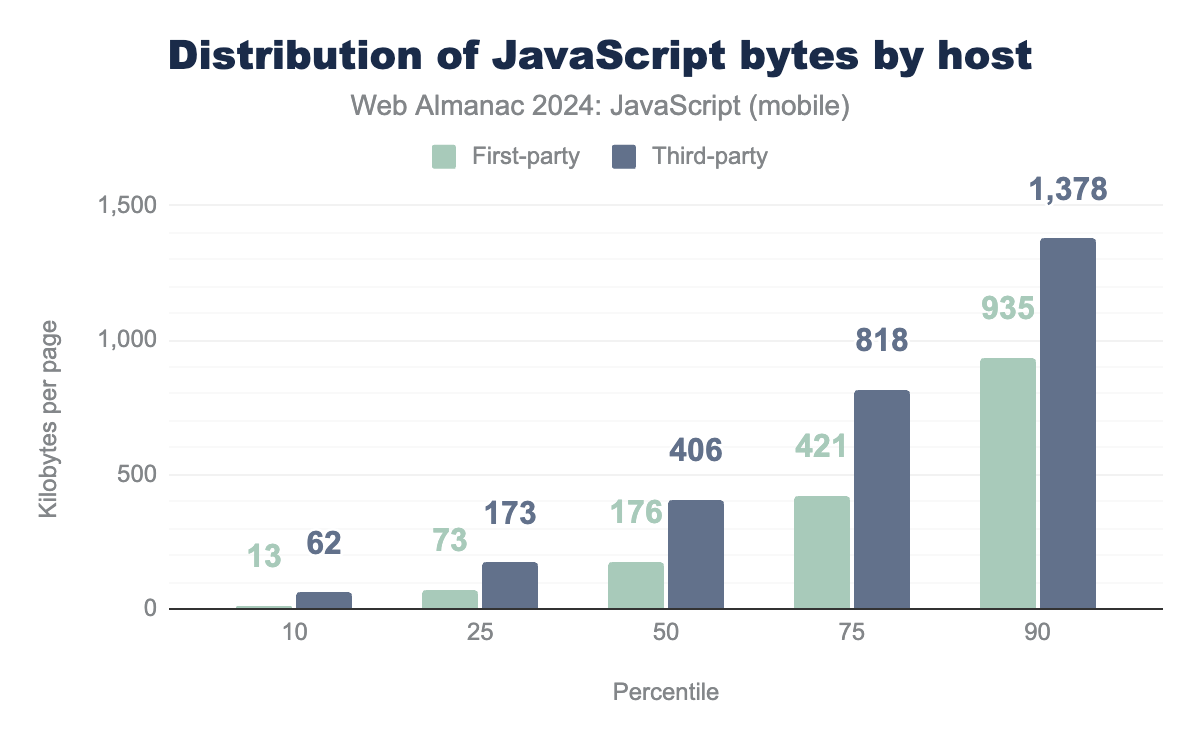
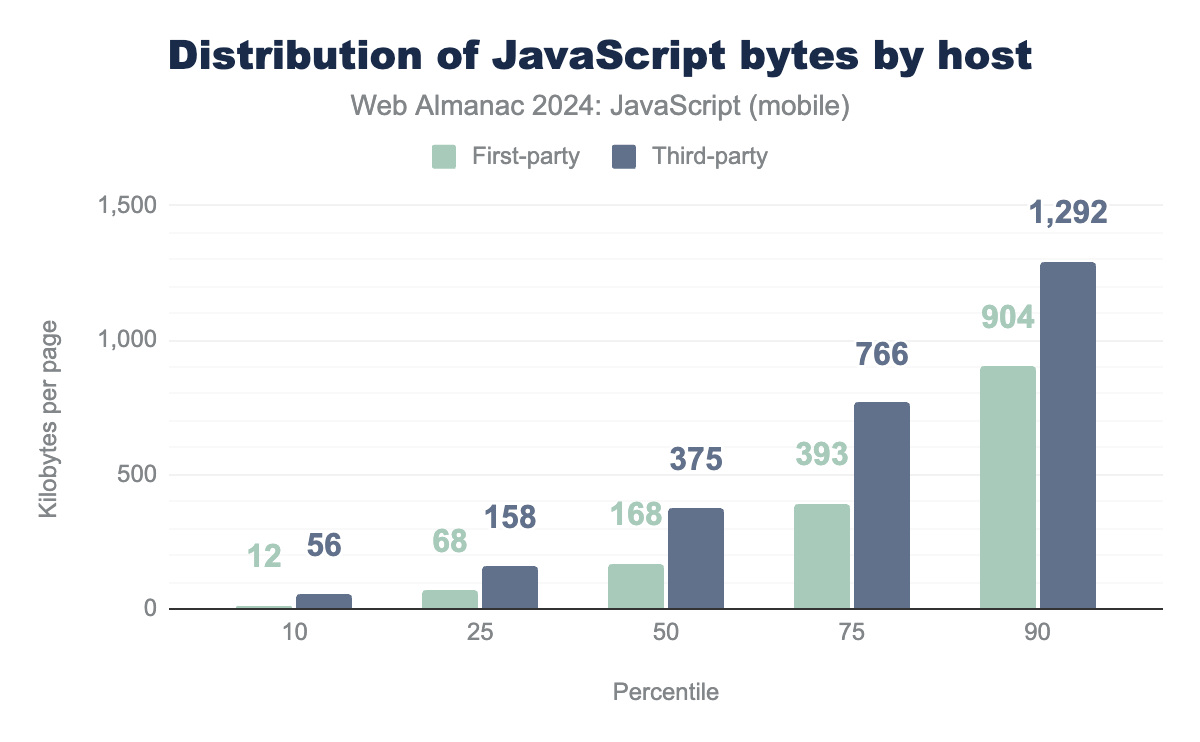
More chart descriptions

diff --git a/src/content/en/2024/javascript.md b/src/content/en/2024/javascript.md
@@ -112,7 +112,7 @@ In the 2022 Web Almanac, year we [looked at transpilers as a percentage of those
 {{ figure_markup(
   image="sites-using-babel-grouped-by-rank.png",
   caption="Sites using Babel grouped by rank.",
-  description="Bar chart of TODO.",
+  description="Bar chart showing Babel usage by rank. For desktop it's 7.6% for the top 1,000 sites, 8.9% for the top 10,000, 6.9% for the top 100,000, 4.7% for the top one million, 4.1% for the top 10 million, and 5.3% for all sites. For mobile it's 9.9% for the top 1,000 sites, 12.0% for the top 10,000, 9.1% for the top 100,000, 5.8% for the top million, and 4.7% for the top ten million and 6.1% for all sites.",
   chart_url="https://docs.google.com/spreadsheets/d/e/2PACX-1vTCTcjvYejhJMWHZwhCSCVm3cbTzqq8pdJRqC6wnBnbsTvPvHu5rTOTbX4_6gWHx-urn-pccmk9bhT3/pubchart?oid=2030733123&format=interactive",
   sheets_gid="1658473552",
   sql_file="usage_of_typescript_and_babel_by_rank.sql"
@@ -128,7 +128,7 @@ TypeScript is a superset of JavaScript that adds static types, which help catch 
 {{ figure_markup(
   image="sites-using-typescript-grouped-by-rank.png",
   caption="Sites using TypeScript grouped by rank.",
-  description="Bar chart of TODO.",
+  description="Bar chart showing Babel usage by rank. For desktop it's 5.2% for the top 1,000 sites, 6.7% for the top 10,000, 6.1% for the top 100,000, 5.5% for the top one million, 4.9% for the top 10 million, and 6.0% for all sites. For mobile it's 4.5% for the top 1,000 sites, 6.2% for the top 10,000, 5.7% for the top 100,000, 5.4% for the top million, and 4.9% for the top ten million and 6.2% for all sites.",
   chart_url="https://docs.google.com/spreadsheets/d/e/2PACX-1vTCTcjvYejhJMWHZwhCSCVm3cbTzqq8pdJRqC6wnBnbsTvPvHu5rTOTbX4_6gWHx-urn-pccmk9bhT3/pubchart?oid=295342967&format=interactive",
   sheets_gid="1658473552",
   sql_file="usage_of_typescript_and_babel_by_rank.sql"
@@ -152,7 +152,7 @@ For modern web applications, the `module` attribute indicates that a script is a
 {{ figure_markup(
   image="how-is-javascript-requested.png",
   caption="How is JavaScript requested?.",
-  description="Bar chart of TODO.",
+  description="Bar chart showing that on desktop, `async` is used on 87% of sites, `defer` on 48%, `async` and `defer` on 22%, `module` on 4%, `nomodule` at 0%, and neither `async` nor `defer` at 11%. For mobile it's pretty identical: `async` is used on 87% of sites, `defer` on 47%, `async` and `defer` on 22%, `module` on 4%, `nomodule` at 0%, and neither `async` nor `defer` at 11%.",
   chart_url="https://docs.google.com/spreadsheets/d/e/2PACX-1vTCTcjvYejhJMWHZwhCSCVm3cbTzqq8pdJRqC6wnBnbsTvPvHu5rTOTbX4_6gWHx-urn-pccmk9bhT3/pubchart?oid=1907402404&format=interactive",
   sheets_gid="901949116",
   sql_file="breakdown_of_pages_using_async_defer.sql"
@@ -163,10 +163,8 @@ Comparing JavaScript loading trends from [the last Web Almanac 2022](../javascri
 
 `module` usage remains low at 4%, while `nomodule` shows xlose to zero adoption, indicating that modern JavaScript module systems are still not widely implemented across the web.
 
-
-
 <figure>
-  <table role="table">
+  <table>
     <thead>
       <tr>
         <th>Attribute</th>
@@ -220,7 +218,7 @@ Resource hints play a crucial role in optimizing browser performance by indicati
 {{ figure_markup(
   image="resource-hints-adoption-for-javascript-resources.png",
   caption="Resource hints adoption for JavaScript resources.",
-  description="Bar chart of TODO.",
+  description="Bar chart of resource hint adoption for JavaScript resources. On desktop `prefetch` is used on 5.1% of pages, `preload` on 7.7%, and `modulepreload` on 0.7% of page. On mobile it's similar with `prefetch` used on 4.8% of pages, `preload` on 7.5%, and `modulepreload` on 0.7% of page.",
   chart_url="https://docs.google.com/spreadsheets/d/e/2PACX-1vTCTcjvYejhJMWHZwhCSCVm3cbTzqq8pdJRqC6wnBnbsTvPvHu5rTOTbX4_6gWHx-urn-pccmk9bhT3/pubchart?oid=516338021&format=interactive",
   sheets_gid="724748185",
   sql_file="resource-hints-prefetch-preload-modulepreload-percentage.sql"
@@ -232,7 +230,7 @@ In comparing the trends between 2022 and 2024 for resource hints adoption, `prel
 {{ figure_markup(
   image="distribution-of-prefetch-adoption-for-javascript-resources-per-page.png",
   caption="Distribution of `prefetch` adoption for JavaScript resources per page.",
-  description="Bar chart of TODO.",
+  description="Bar chart of `prefetch` adoption for JavaScript resources by percentile. For desktop, 2 resources are prefetched at the 10th percentile, 12 at the 25th, and 15th at the 50th, 75th, and 90th percentile. For mobile, it's almost identical with 2 resources prefetched at the 10th percentile, 10 at the 25th, and 15th at the 50th, 75th, and 90th percentile.",
   chart_url="https://docs.google.com/spreadsheets/d/e/2PACX-1vTCTcjvYejhJMWHZwhCSCVm3cbTzqq8pdJRqC6wnBnbsTvPvHu5rTOTbX4_6gWHx-urn-pccmk9bhT3/pubchart?oid=598973620&format=interactive",
   sheets_gid="1228269471",
   sql_file="resource-hints-preload-prefetch-modulepreload-distribution.sql"
@@ -244,7 +242,7 @@ The distribution of `prefetch` adoption for JavaScript resources (among pages th
 {{ figure_markup(
   image="distribution-of-preload-adoption-for-javascript-resources-per-page.png",
   caption="Distribution of `preload` adoption for JavaScript resources per page.",
-  description="Bar chart of TODO.",
+  description="Bar chart of `preload` adoption for JavaScript resources by percentile. Desktop and mobile have identical numbers with 1 resource `preloaded` at the 10th, 25th, and 50th percentiles, 3 at the 75th, and 6 at the 90th percentile.",
   chart_url="https://docs.google.com/spreadsheets/d/e/2PACX-1vTCTcjvYejhJMWHZwhCSCVm3cbTzqq8pdJRqC6wnBnbsTvPvHu5rTOTbX4_6gWHx-urn-pccmk9bhT3/pubchart?oid=388378073&format=interactive",
   sheets_gid="1228269471",
   sql_file="resource-hints-preload-prefetch-modulepreload-distribution.sql"
@@ -256,12 +254,14 @@ Among pages that use `preload`, there is less usage with only one `preload` at t
 {{ figure_markup(
   image="distribution-of-modulepreload-adoption-for-javascript-resources-per-page.png",
   caption="Distribution of `modulepreload` adoption for JavaScript resources per page.",
-  description="Bar chart of TODO.",
+  description="Bar chart of `modulepreload` adoption for JavaScript resources by percentile. For desktop, 1 resource  at the 10th percentile, 4 at the 25th, and 12 at the 50th, 31 at the 75th, and 68 at the 90th percentile. For mobile it's similar with 1 resource at the 10th percentile, 4 at the 25th, and 12 at the 50th, 26 at the 75th, and 66 at the 90th percentile.",
   chart_url="https://docs.google.com/spreadsheets/d/e/2PACX-1vTCTcjvYejhJMWHZwhCSCVm3cbTzqq8pdJRqC6wnBnbsTvPvHu5rTOTbX4_6gWHx-urn-pccmk9bhT3/pubchart?oid=922735274&format=interactive",
   sheets_gid="1228269471",
   sql_file="resource-hints-preload-prefetch-modulepreload-distribution.sql"
   )
 }}
+
+`modulepreload` usage is much more varied, but with low usage this is easily skewed by a few sites.
 
 ### Injected scripts
 
@@ -270,7 +270,7 @@ Script injection involves creating an `HTMLScriptElement` using `document.create
 {{ figure_markup(
   image="distribution-of-percentage-of-injected-scripts.png",
   caption="Distribution of percentage of injected scripts.",
-  description="Bar chart of TODO.",
+  description="Bar chart of the percentage of injected scripts by percentile. For desktop it's 0% at the 10th percentile, 5% at the 25th, 24% at the median, 50% at the 75th, and 73% at the 90th percentile. For mobile it's similar with 0% at the 10th percentile, 3% at the 25th, 21% at the median, 50% at the 75th, and 70% at the 90th percentile.",
   chart_url="https://docs.google.com/spreadsheets/d/e/2PACX-1vTCTcjvYejhJMWHZwhCSCVm3cbTzqq8pdJRqC6wnBnbsTvPvHu5rTOTbX4_6gWHx-urn-pccmk9bhT3/pubchart?oid=153813417&format=interactive",
   sheets_gid="1725251320",
   sql_file="distribution_of_injected_scripts.sql"
@@ -288,7 +288,7 @@ First-party JavaScript is code that is directly served by and belongs to the web
 {{ figure_markup(
   image="distribution-of-javascript-requests-by-host.png",
   caption="Distribution of JavaScript requests by host.",
-  description="Bar chart of TODO.",
+  description="Bar chart of requests by host by percentile. It's 2 first-party and 2 third-party at the 10th percentile, 5 and 4 respectively at the 25th percentile, 11 and 10 at the 50th, 24 and 20 at the 75th, and 45 and 36 at the 90th percentile.",
   chart_url="https://docs.google.com/spreadsheets/d/e/2PACX-1vTCTcjvYejhJMWHZwhCSCVm3cbTzqq8pdJRqC6wnBnbsTvPvHu5rTOTbX4_6gWHx-urn-pccmk9bhT3/pubchart?oid=2046058068&format=interactive",
   sheets_gid="644448469",
   sql_file="requests_by_3p.sql"
@@ -302,13 +302,12 @@ Comparing the two trends, the 2024 graph shows an increase in [third-party JavaS
 {{ figure_markup(
   image="distribution-of-javascript-bytes-by-host.png",
   caption="Distribution of JavaScript bytes by host.",
-  description="Bar chart of TODO.",
+  description="Bar chart of bytes by percentile for mobile. At the 10th percentile it's 12 kilobytes first-party and 56 kilobytes at third-party, at the 25th it's 68 and 158, at the 50th it's 168 and 375, at the 75th it's 393 and 766, and at the 90th percentile it's 904 kilobytes first-party and 1,292 kilobytes third-party.",
   chart_url="https://docs.google.com/spreadsheets/d/e/2PACX-1vTCTcjvYejhJMWHZwhCSCVm3cbTzqq8pdJRqC6wnBnbsTvPvHu5rTOTbX4_6gWHx-urn-pccmk9bhT3/pubchart?oid=227593882&format=interactive",
   sheets_gid="2060931510",
   sql_file="bytes_by_3p.sql"
   )
 }}
-
 
 ### Dynamic Imports
 
@@ -375,7 +374,7 @@ While brotli offers better compression ratios than gzip, especially for text res
 {{ figure_markup(
   image="compression-methods-of-script-resources.png",
   caption="Compression methods of script resources.",
-  description="Bar chart of TODO.",
+  description="Bar chart of compression methods of script resources. For desktop it's 44% brotli (`br`), 41% gzip (`gzip`), 13% not sent and 1% Z-standard (`zstd`). For mobile it's similar with 45% brotli (`br`), 41% gzip (`gzip`), 12% not sent and 1% Z-standard (`zstd`).",
   chart_url="https://docs.google.com/spreadsheets/d/e/2PACX-1vTCTcjvYejhJMWHZwhCSCVm3cbTzqq8pdJRqC6wnBnbsTvPvHu5rTOTbX4_6gWHx-urn-pccmk9bhT3/pubchart?oid=1205373602&format=interactive",
   sheets_gid="2030065986",
   sql_file="compression_method.sql"
@@ -389,7 +388,7 @@ This Brotli ascendancy represents a major win for web performance, as Brotli typ
 {{ figure_markup(
   image="growth-of-brotli-for-compressing-javascript.png",
   caption="Growth of Brotli for compressing JavaScript.",
-  description="Bar chart of TODO.",
+  description="Bar chart showing the growth of Brotli for JavaScript resources from 2019 to 2024. For desktop it's increased from 15% in 2019, 20% in 2020, 30% in 2021, 33% in 2022, and is now at 44% in 2024. For mobile it's very similar and has increased from 14% in 2019, 20% in 2020, 31% in 2021, 34% in 2022, and is now at 45% in 2024.",
   chart_url="https://docs.google.com/spreadsheets/d/e/2PACX-1vTCTcjvYejhJMWHZwhCSCVm3cbTzqq8pdJRqC6wnBnbsTvPvHu5rTOTbX4_6gWHx-urn-pccmk9bhT3/pubchart?oid=1695781069&format=interactive",
   sheets_gid="2030065986",
   sql_file="compression_method.sql"
